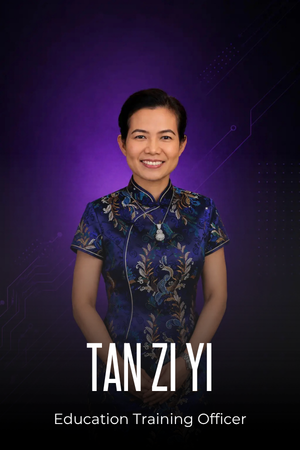
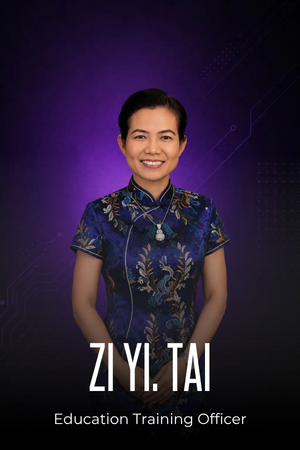
content: replace speaker image and rename to Zi Yi. Tai

Changed region(s): [[0.27, 0.7467, 0.72, 0.8711]]

diff --git a/src/app/preview-event-v4/page.tsx b/src/app/preview-event-v4/page.tsx
@@ -554,7 +554,7 @@ export default function PreviewEventV4Page() {
               </div>
             </motion.div>
 
-            {/* Tan Zi Yi */}
+            {/* Zi Yi. Tai */}
             <motion.div
               initial="hidden"
               whileInView="visible"
@@ -566,12 +566,12 @@ export default function PreviewEventV4Page() {
                 <div className="mb-4 mx-auto h-[450px] w-[300px] overflow-hidden rounded-xl bg-gray-100">
                   <img
                     src="/speaker-ziyi.png"
-                    alt="Tan Zi Yi"
+                    alt="Zi Yi. Tai"
                     className="h-full w-full object-cover"
                   />
                 </div>
                 <h3 className="mb-1 text-lg font-bold text-gray-900">
-                  Tan Zi Yi
+                  Zi Yi. Tai
                 </h3>
                 <p className="mb-3 text-sm font-medium text-[#D8B86A]">
                   Education Training Officer
